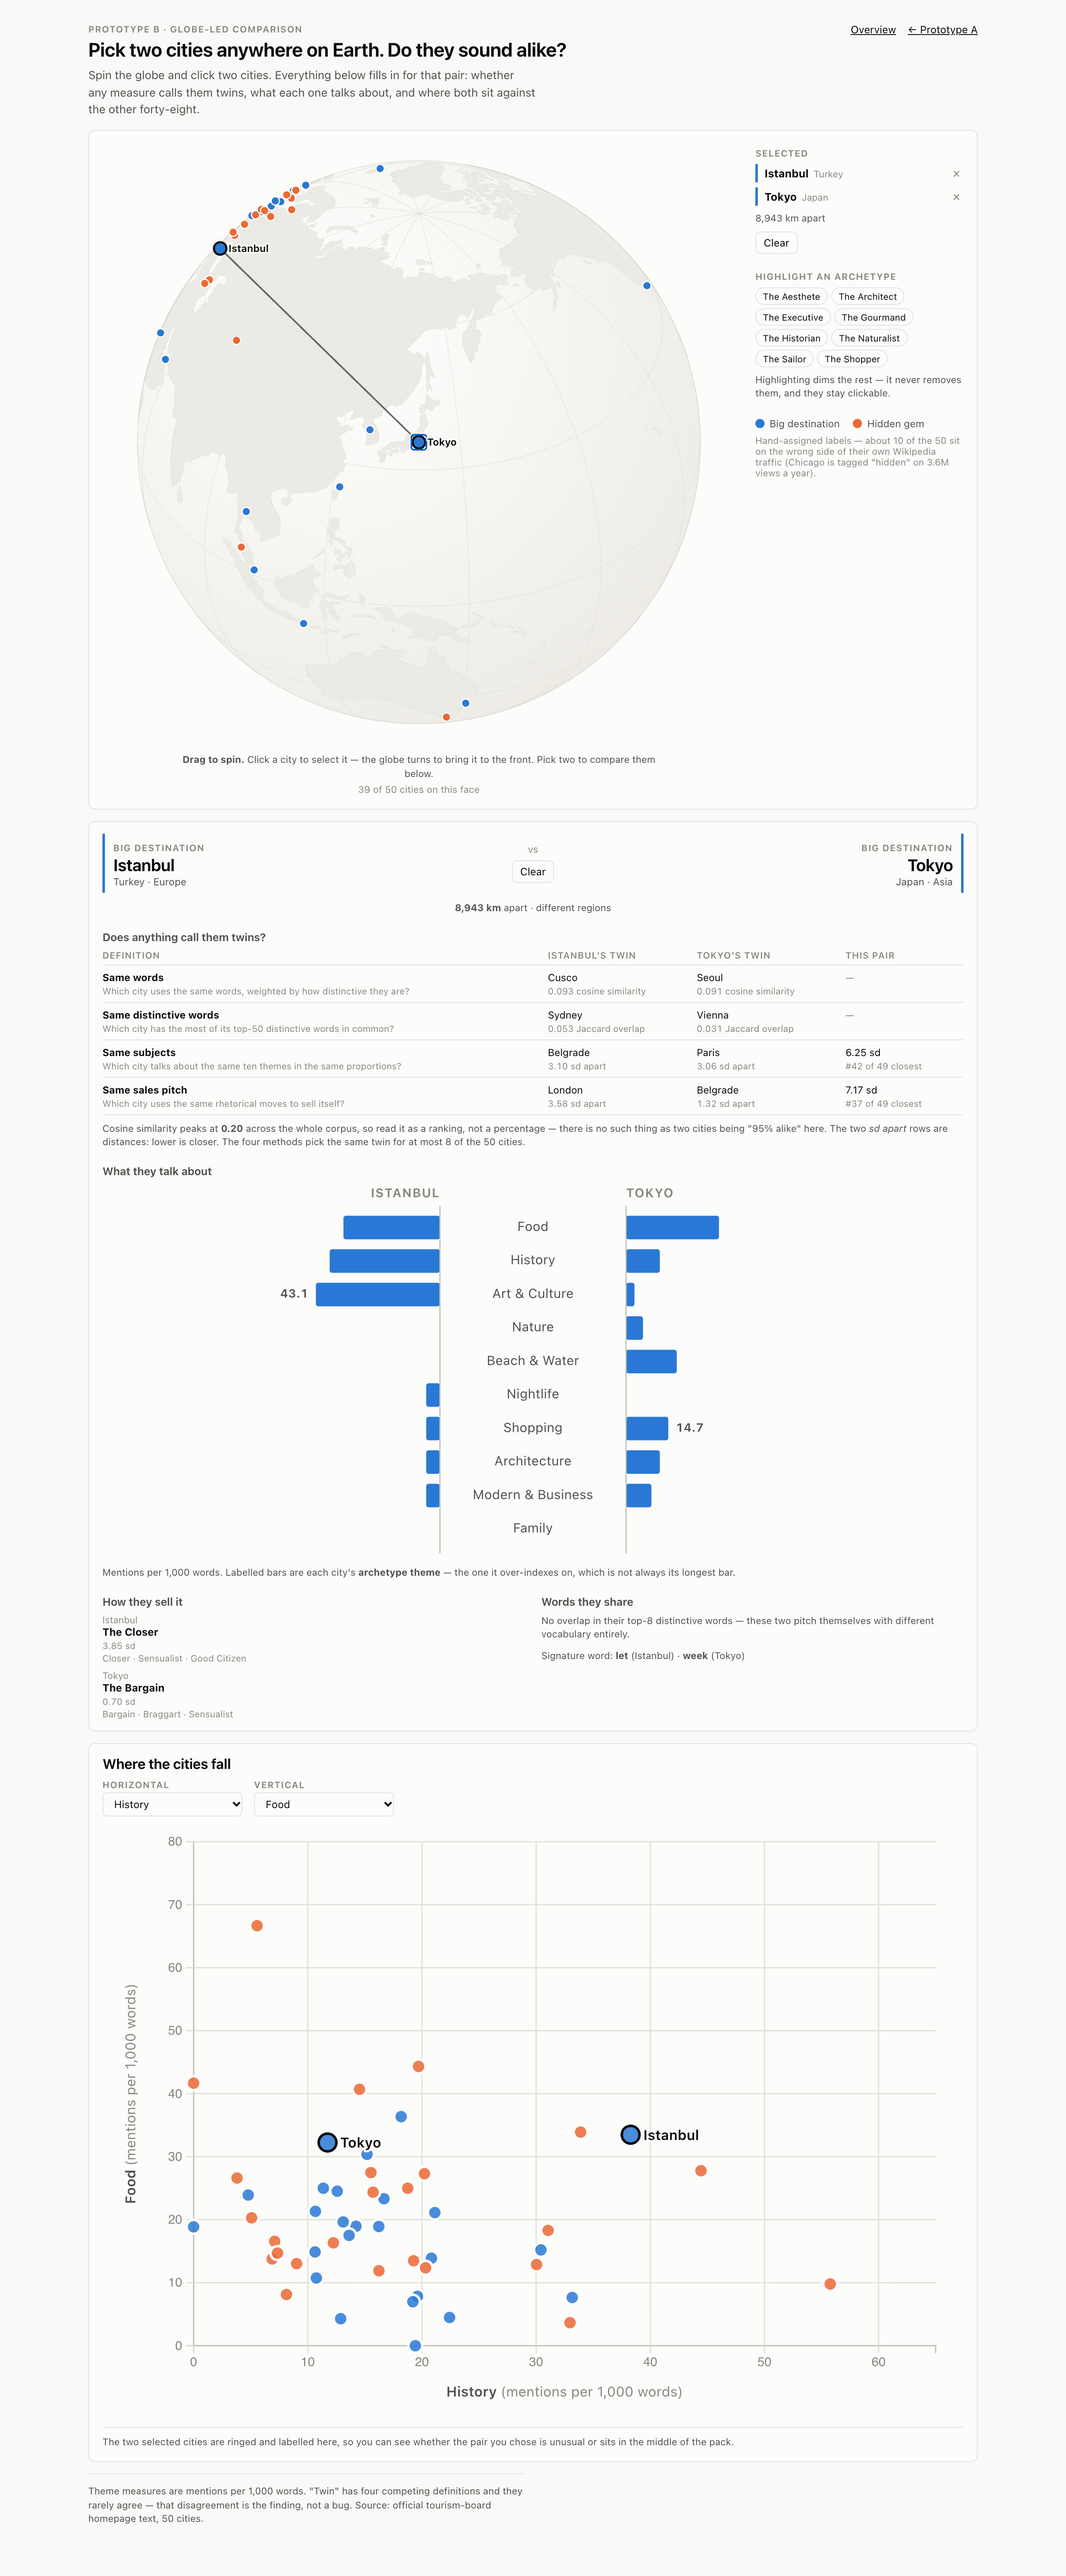
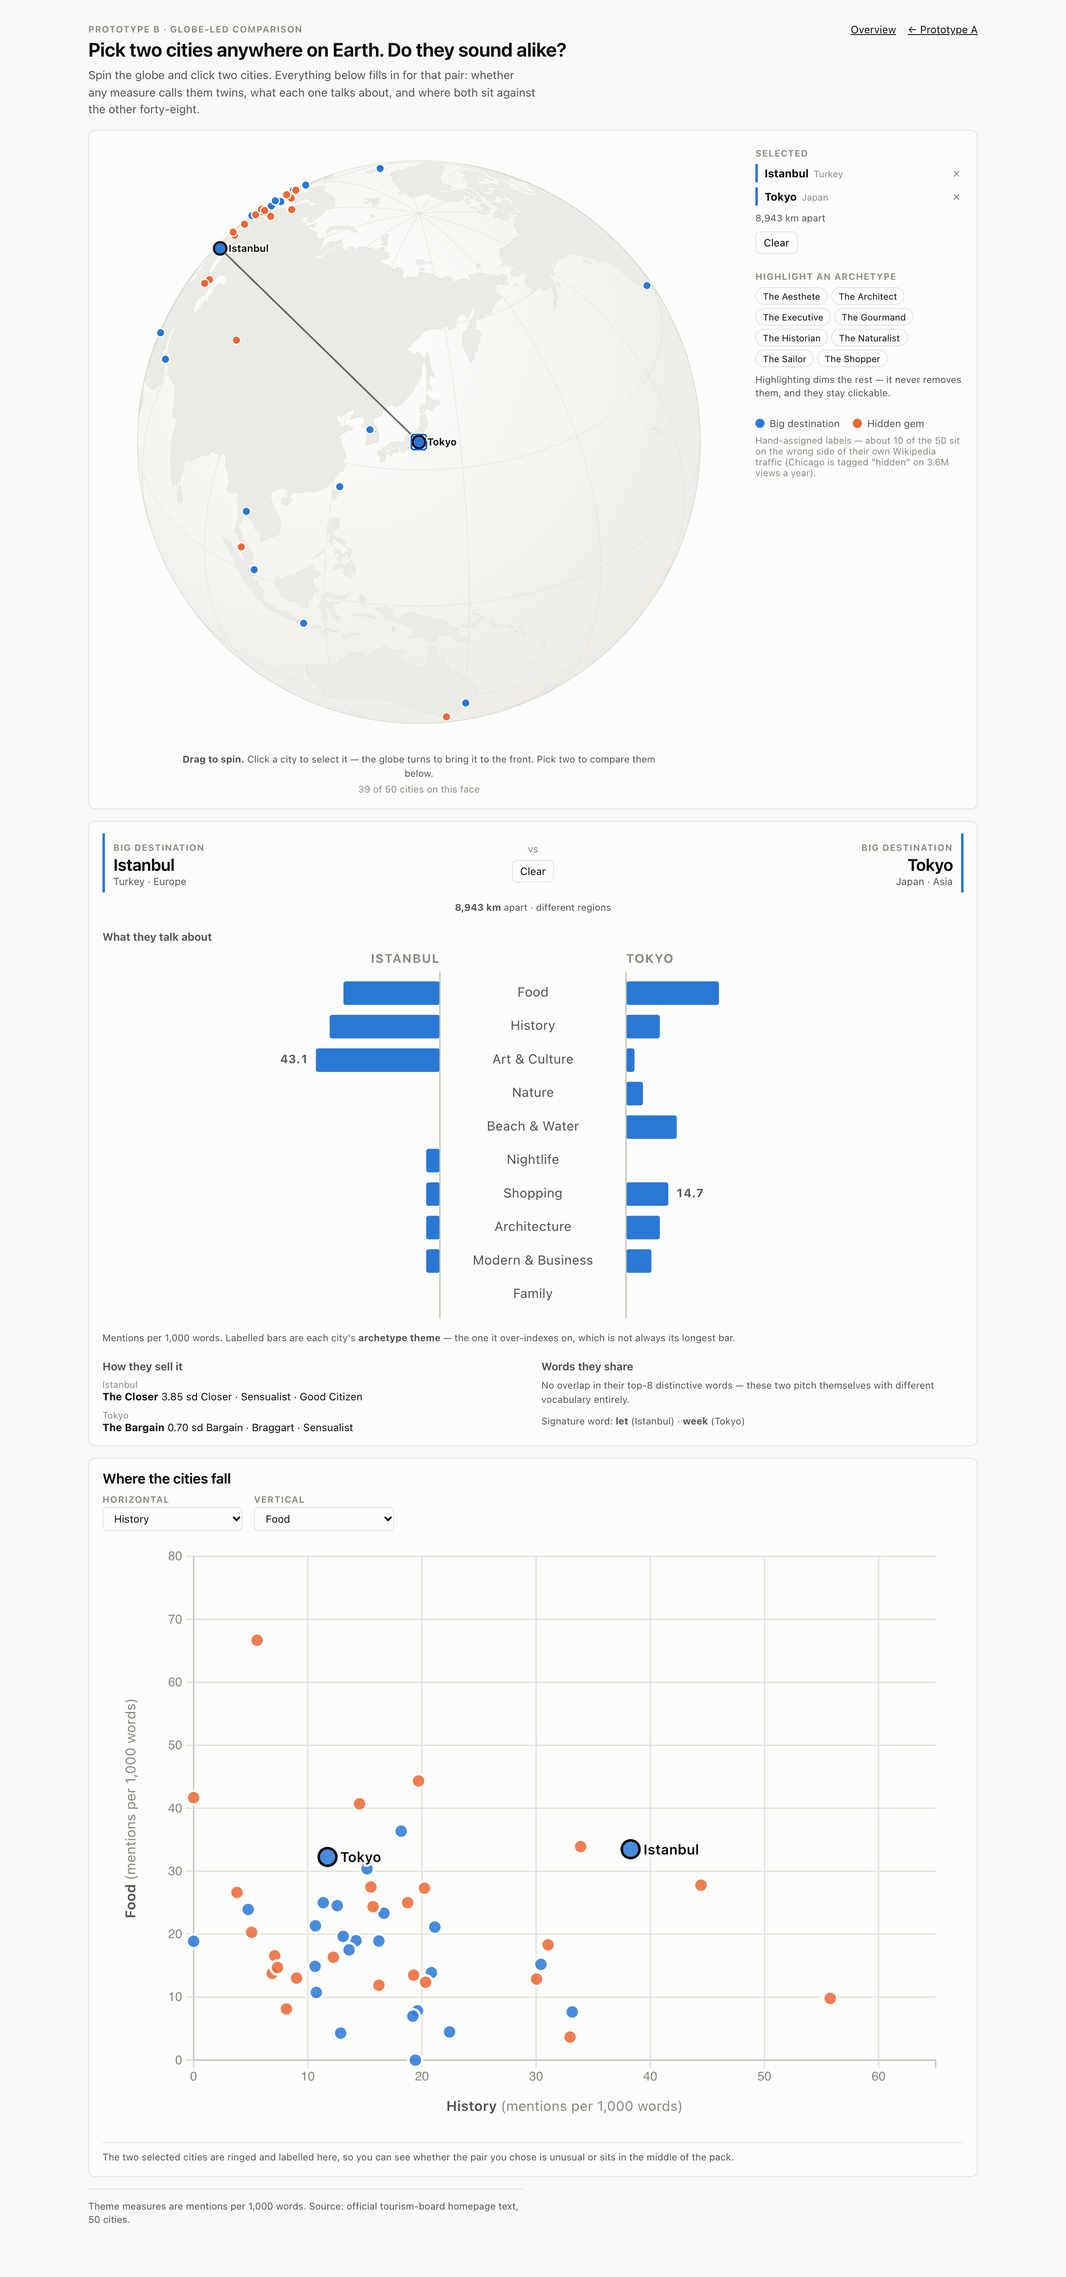
comparison: drop the four-definition twin table
It was analytically honest but dense: four rows, three columns, two
different directions of 'closer', and two measures that only exist for
each city's own best match. Hard to read at a glance.

The head-to-head now goes straight to the theme-by-theme diverging
bars, how each city sells itself, and the vocabulary they share. No
similarity score is shown anywhere, which still satisfies the
methodology's constraint that cosine similarity (corpus max 0.20) must
never be presented as a percentage.

Removes the now-dead TWIN_METHODS import, rank helpers and table CSS,
and the copy in both routes that advertised the table.

32/32 interaction checks pass.

diff --git a/src/lib/HeadToHead.svelte b/src/lib/HeadToHead.svelte
@@ -2,17 +2,16 @@
   /**
    * Josh's sketch 15, with one correction from the methodology: similarity is
    * cosine on descriptive TF-IDF and the corpus maximum is 0.20, so the sketch's
-   * "Overall similarity 95%" is not a number this data can produce. We show the
-   * four twin definitions instead, and let them disagree in public.
+   * "Overall similarity 95%" is not a number this data can produce, and no
+   * single similarity score is shown.
    *
-   * Theme comparison is a diverging bar chart: themes down the middle, city A's
+   * Comparison is a diverging bar chart: themes down the middle, city A's
    * rate to the left, city B's to the right, on one shared length scale with a
    * zero baseline at the centre.
    */
   import { scaleLinear } from 'd3-scale';
   import {
-    THEMES, PERSONALITIES, TWIN_METHODS,
-    themeProfileDistance, personalityProfileDistance,
+    THEMES, PERSONALITIES,
     greatCircleKm, sharedDescriptiveWords
   } from './data.js';
 
@@ -43,20 +42,7 @@
   let len = $derived(scaleLinear().domain([0, themeMax]).range([0, ARM]));
 
   let km = $derived(a && b ? greatCircleKm(a, b) : 0);
-  let themeDist = $derived(a && b ? themeProfileDistance(a, b) : 0);
-  let voiceDist = $derived(a && b ? personalityProfileDistance(a, b) : 0);
   let shared = $derived(a && b ? sharedDescriptiveWords(a, b) : []);
-
-  /** Where this pair ranks among a's 49 possible partners, 1 = closest. */
-  function rankOf(city, other, fn) {
-    const all = cities
-      .filter((c) => c.city !== city.city)
-      .map((c) => fn(city, c))
-      .sort((x, y) => x - y);
-    return all.indexOf(fn(city, other)) + 1;
-  }
-  let themeRank = $derived(a && b ? rankOf(a, b, themeProfileDistance) : 0);
-  let voiceRank = $derived(a && b ? rankOf(a, b, personalityProfileDistance) : 0);
 
   /** The strongest rhetorical moves a city leans on, for the voice read-out. */
   function topVoice(c, n = 3) {
@@ -107,59 +93,6 @@
       {#if a.region !== b.region}· different regions{:else}· same region{/if}
     </p>
 
-    <!-- Four definitions of "twin", and they disagree. -->
-    <section>
-      <h3>Does anything call them twins?</h3>
-      <table class="twins">
-        <thead>
-          <tr>
-            <th>Definition</th>
-            <th>{a.city}'s twin</th>
-            <th>{b.city}'s twin</th>
-            <th>This pair</th>
-          </tr>
-        </thead>
-        <tbody>
-          {#each TWIN_METHODS as m}
-            {@const aT = a.twins[m.id]}
-            {@const bT = b.twins[m.id]}
-            {@const hit = aT.partner === b.city || bT.partner === a.city}
-            <tr class:hit>
-              <td>
-                <strong>{m.label}</strong>
-                <span class="q">{m.question}</span>
-              </td>
-              <td class:match={aT.partner === b.city}>
-                {aT.partner}
-                <span class="score">{fmt(aT.score, m.lowerIsCloser ? 2 : 3)} {m.unit}</span>
-              </td>
-              <td class:match={bT.partner === a.city}>
-                {bT.partner}
-                <span class="score">{fmt(bT.score, m.lowerIsCloser ? 2 : 3)} {m.unit}</span>
-              </td>
-              <td>
-                {#if m.id === 'theme'}
-                  {fmt(themeDist)} sd<span class="score">#{themeRank} of 49 closest</span>
-                {:else if m.id === 'personality'}
-                  {fmt(voiceDist)} sd<span class="score">#{voiceRank} of 49 closest</span>
-                {:else if hit}
-                  yes
-                {:else}
-                  <span class="na">—</span>
-                {/if}
-              </td>
-            </tr>
-          {/each}
-        </tbody>
-      </table>
-      <p class="note caveat">
-        Cosine similarity peaks at <strong>0.20</strong> across the whole corpus, so
-        read it as a ranking, not a percentage — there is no such thing as two
-        cities being "95% alike" here. The two <em>sd apart</em> rows are
-        distances: lower is closer. The four methods pick the same twin for at
-        most 8 of the 50 cities.
-      </p>
-    </section>
 
     <!-- Diverging bars: zero baseline down the centre, one shared length scale. -->
     <section>
@@ -286,23 +219,6 @@
 
   h3 { color: var(--text-secondary); margin-bottom: 7px; }
 
-  table.twins { width: 100%; border-collapse: collapse; font-size: 0.75rem; }
-  .twins th {
-    text-align: left; font-weight: 600; color: var(--text-muted);
-    font-size: 0.68rem; text-transform: uppercase; letter-spacing: 0.05em;
-    padding: 0 8px 5px 0; border-bottom: 1px solid var(--border);
-  }
-  .twins td {
-    padding: 7px 8px 7px 0; vertical-align: top;
-    border-bottom: 1px solid var(--border);
-  }
-  .twins tr.hit td { background: var(--wash); }
-  .twins td.match { font-weight: 650; }
-  .q { display: block; color: var(--text-muted); font-size: 0.68rem; margin-top: 2px; }
-  .score { display: block; color: var(--text-muted); font-size: 0.68rem; margin-top: 2px;
-           font-variant-numeric: tabular-nums; }
-  .na { color: var(--text-muted); }
-  .caveat { margin-top: 8px; }
 
   svg { width: 100%; height: auto; }
   .stripe { fill: transparent; }

diff --git a/src/routes/prototype-b/+page.svelte b/src/routes/prototype-b/+page.svelte
@@ -4,7 +4,7 @@
    *
    * A large orthographic globe is the entry point and the only way in. Click a
    * city to select it; click a second and every comparison view below fills in
-   * at once — the twin table, the theme-by-theme diverging bars, and the
+   * at once — the theme-by-theme diverging bars, the shared vocabulary, and the
    * scatter with both cities called out.
    *
    *   globe click --SELECT-->  head-to-head + scatter callouts + arc
@@ -75,8 +75,8 @@
       <h1>Pick two cities anywhere on Earth. Do they sound alike?</h1>
       <p class="lede">
         Spin the globe and click two cities. Everything below fills in for that
-        pair: whether any measure calls them twins, what each one talks about,
-        and where both sit against the other forty-eight.
+        pair: what each one talks about, how each one sells itself, and where
+        both sit against the other forty-eight.
       </p>
     </div>
     <nav>
@@ -177,9 +177,8 @@
     </section>
 
     <footer class="note">
-      Theme measures are mentions per 1,000 words. "Twin" has four competing
-      definitions and they rarely agree — that disagreement is the finding, not
-      a bug. Source: official tourism-board homepage text, 50 cities.
+      Theme measures are mentions per 1,000 words. Source: official
+      tourism-board homepage text, 50 cities.
     </footer>
   {/if}
 </main>

diff --git a/src/routes/+page.svelte b/src/routes/+page.svelte
@@ -50,18 +50,16 @@
     <h3>What this data will and will not support</h3>
     <ul class="note">
       <li>
-        Similarity is cosine on descriptive TF-IDF and tops out at
-        <strong>0.20</strong> across the whole corpus. It ranks pairs; it is not a
-        percentage, and no two cities here are "95% alike".
+        Similarity here is cosine on descriptive TF-IDF and tops out at
+        <strong>0.20</strong> across the whole corpus — a ranking, not a
+        percentage. No two cities are "95% alike", so we show no similarity
+        score at all.
       </li>
       <li>
-        There are <strong>four definitions of "twin"</strong> and they pick the
-        same partner for at most 8 of the 50 cities. Both prototypes show all four.
-      </li>
-      <li>
-        The popular/hidden label is hand-assigned and about 10 of 50 disagree with
-        their own Wikipedia traffic. Prototype B filters on
-        <strong>obscurity</strong>, an outside measure, instead.
+        The popular/hidden label is hand-assigned and about 10 of 50 disagree
+        with their own Wikipedia traffic (Chicago is tagged "hidden" on 3.6M
+        views a year). <strong>Obscurity</strong>, an outside measure, is
+        offered as a sort key in Prototype A.
       </li>
       <li>
         <strong>Distinctiveness</strong> and <strong>vocabulary richness</strong>

diff --git a/docs/process-book-milestone-6.md b/docs/process-book-milestone-6.md
@@ -32,7 +32,7 @@ the combination rather than inventing new charts.
 | --- | --- | --- |
 | **Sorted city cards** | Christine's sketch 3 (identity cards) + Nate's sketch 1 (cities ranked by descriptor) | Every city gets a card carrying its headline number, rank, archetype and personality. Sorting by a theme answers "who pushes this hardest?" by reading down a column — no chart literacy required. |
 | **Globe** | Nate's sketch 3 (cities on a world map) + Josh's sketch 3 (spinning globe, click two to compare) | Puts the pair-picking on the actual planet, so "these two are 9,000 km apart and still sound alike" is something you see rather than read. |
-| **Head-to-head** | Josh's sketch 15 (city vs. city) | The payoff view: twin table, theme-by-theme diverging bars, shared vocabulary. Answers "are these two actually alike?" |
+| **Head-to-head** | Josh's sketch 15 (city vs. city) | The payoff view: theme-by-theme diverging bars, how each city sells itself, and the vocabulary they share. Answers "what does each of these two actually talk about?" |
 | **Two-measure scatter** | Nate's sketch 10 (pick two qualities) | Supporting view in B: shows whether the chosen pair is unusual or sits in the middle of the pack. |
 
 **The question they answer together:** *What is a city trying to be known for,
@@ -47,12 +47,11 @@ candidate and the last one adjudicates.
 
 **One correction the data forced on the sketches.** Josh's sketch 15 showed an
 "Overall Similarity: 95%" badge. The dataset cannot produce that number:
-similarity is cosine on descriptive TF-IDF and its **corpus maximum is 0.20**.
-So we dropped the single badge and show **all four of the pipeline's competing
-twin definitions** instead — same words, same distinctive words, same subjects,
-same sales pitch. They pick the same partner for at most 8 of the 50 cities, and
-making that disagreement visible turned out to be more interesting than any
-single score would have been.
+similarity is cosine on descriptive TF-IDF and its **corpus maximum is 0.20**,
+and the four twin definitions in the pipeline pick the same partner for at most
+8 of the 50 cities. Rather than publish a score that implies a precision the
+data does not have, **we show no similarity number at all** — the comparison
+puts the two cities' theme rates side by side and lets the reader judge.
 
 ---
 
@@ -97,8 +96,9 @@ hover           --LINK---->  every view
 - **Click a city** → it is selected *and* the globe turns to bring it to the
   front, so a click near the rim does not feel random.
 - **Click a second city** → a great-circle arc is drawn between the pair and
-  every view below fills in at once: the twin table, the theme-by-theme
-  diverging bars, and the scatter with both cities ringed and labelled.
+  every view below fills in at once: the theme-by-theme diverging bars, how each
+  city sells itself, the vocabulary they share, and the scatter with both cities
+  ringed and labelled.
 - **Archetype pills** → *highlight only.* Non-matching cities stay on the globe,
   stay drawn and stay clickable. This is the deliberate contrast with A's
   category filter, which removes.
@@ -118,8 +118,8 @@ the head-to-head open below.
 41 of the 50 cities on the visible face. Drag to bring the rest around.
 
 **Prototype B — a pair selected** (`docs/screenshots/proto-b-compare.png`)
-Istanbul and Tokyo, 8,943 km apart, arc drawn between them, with the twin table,
-theme bars and scatter callouts all filled in for that pair.
+Istanbul and Tokyo, 8,943 km apart, arc drawn between them, with the theme bars
+and scatter callouts filled in for that pair.
 
 Dark mode renders are in `docs/screenshots/*-dark.png`; phone-width renders in
 `*-mobile.png`.
@@ -142,8 +142,8 @@ The two prototypes differ in where they let you start. Prototype A starts from a
 takes no chart literacy to read and exposes the full range at a glance — food
 runs from Tasmania at 66.7 mentions per 1,000 words down to London at 0.0,
 meaning London's tourism homepage never mentions food at all. Prototype B starts
-from a *place*: you spin a globe, click two cities, and the twin table, theme
-bars and scatter all fill in for that pair at once. B is the more persuasive of
+from a *place*: you spin a globe, click two cities, and the theme bars, sales-pitch
+read-out and scatter all fill in for that pair at once. B is the more persuasive of
 the two, because putting the pair on an actual sphere makes the central finding
 physical — 28 of the 50 cities (56%) have their closest-sounding twin in a
 different world region, and Ghent's nearest neighbour by distinctive vocabulary
@@ -155,9 +155,10 @@ Our next step is to use B as the spine of the final project and demote A's sorte
 cards to the "browse everything" panel you reach once the globe has made its
 point. Three fixes come first: an affordance on the globe for the cities you
 cannot currently see (a count badge or a searchable city list), a sticky header
-in the card gallery so the active sort measure survives the fold, and more room
-for the four-definition twin table, which is the most novel thing we have and is
-currently buried at the bottom of both pages. We also want to stop colouring by
+in the card gallery so the active sort measure survives the fold, and a clearer
+answer to "are these two alike?" — we pulled the four-definition twin table out
+for being hard to read, but the comparison now leaves that judgement entirely to
+the reader. We also want to stop colouring by
 the hand-assigned popular/hidden label, since about ten of the fifty disagree
 with their own Wikipedia traffic, and move to the continuous obscurity measure
 instead.
@@ -195,6 +196,10 @@ Things we had to correct or decide ourselves:
 - **Colour.** We held it to one rule: colour encodes city category and nothing
   else. Archetype and personality have 8-10 levels each, which no categorical
   palette can carry; they get position, grouping and text instead.
+- **We cut the twin table.** It showed all four twin definitions side by side,
+  which was analytically honest but dense and hard to read at a glance. We
+  removed it rather than keep a table nobody could parse; finding a lighter way
+  to express "do these two sound alike?" is now an open design problem.
 - **We redesigned both prototypes after the first round.** The first pass gave us
   an archetype grid and a flat map; we replaced them with a sorted card gallery
   and a large draggable globe, because ranking and spinning are things our
